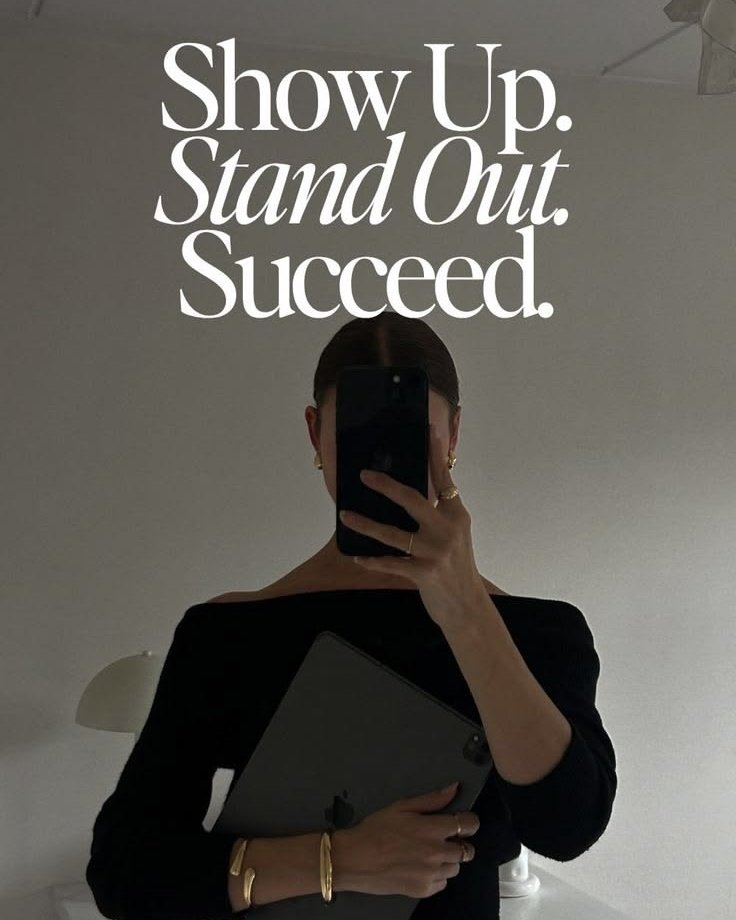
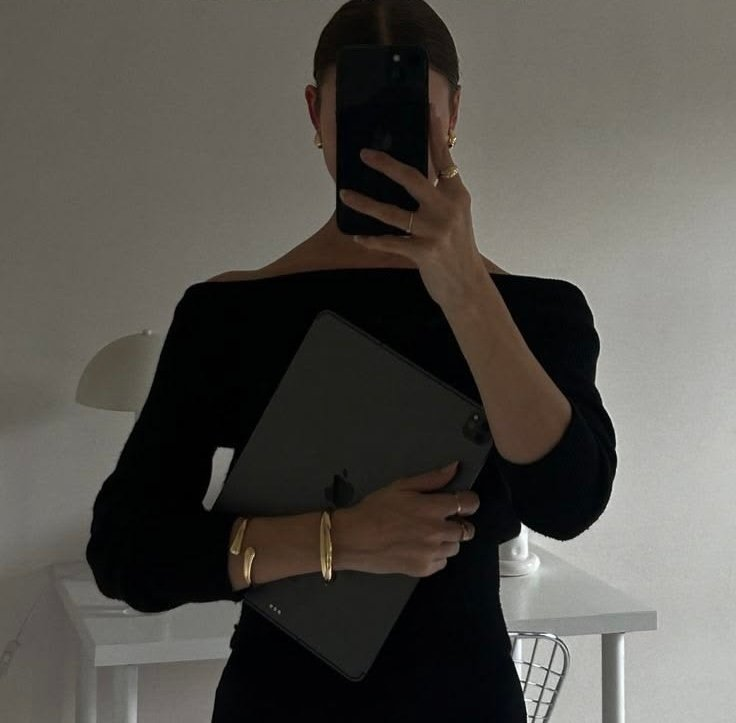
Learn & Inspire: Foto ohne Schriftzug
Claude-Session: https://claude.ai/code/session_018LRaEv6Zg4KqxPBucSXWW8

diff --git a/src/styles/global.css b/src/styles/global.css
@@ -486,5 +486,5 @@ button.state.state-evolving { background: var(--surface-2); }
 .home-box strong { font-size: 1.2rem; font-weight: 600; }
 .home-box span { font-size: 0.82rem; opacity: 0.85; }
 .routines-question { margin: -0.4rem 0 1rem; font-size: 1.25rem; font-weight: 300; line-height: 1.35; }
-/* Learn & Inspire: Schrift steht oben im Bild, deshalb oben ausrichten. */
+/* Learn & Inspire: Handy und Gesicht stehen oben im Bild, deshalb oben ausrichten. */
 img[src$='learn-inspire.jpg'] { object-position: 50% 0; }
